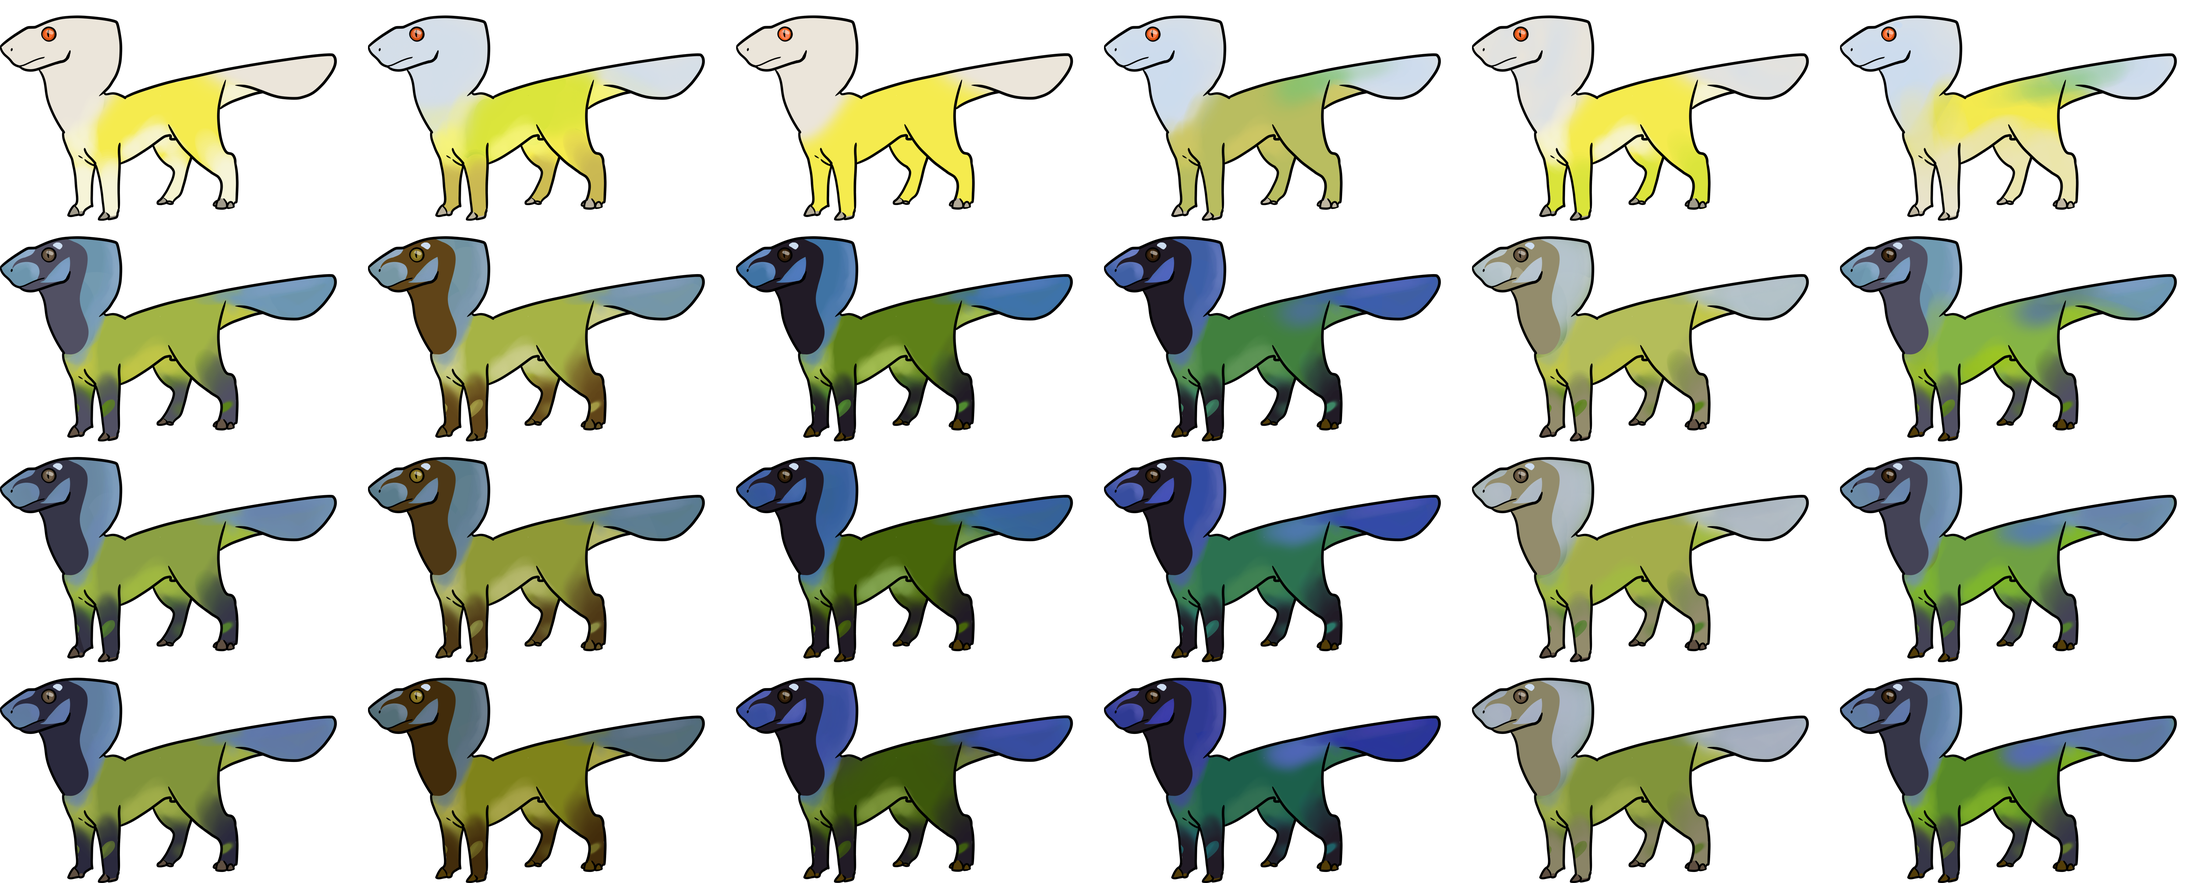
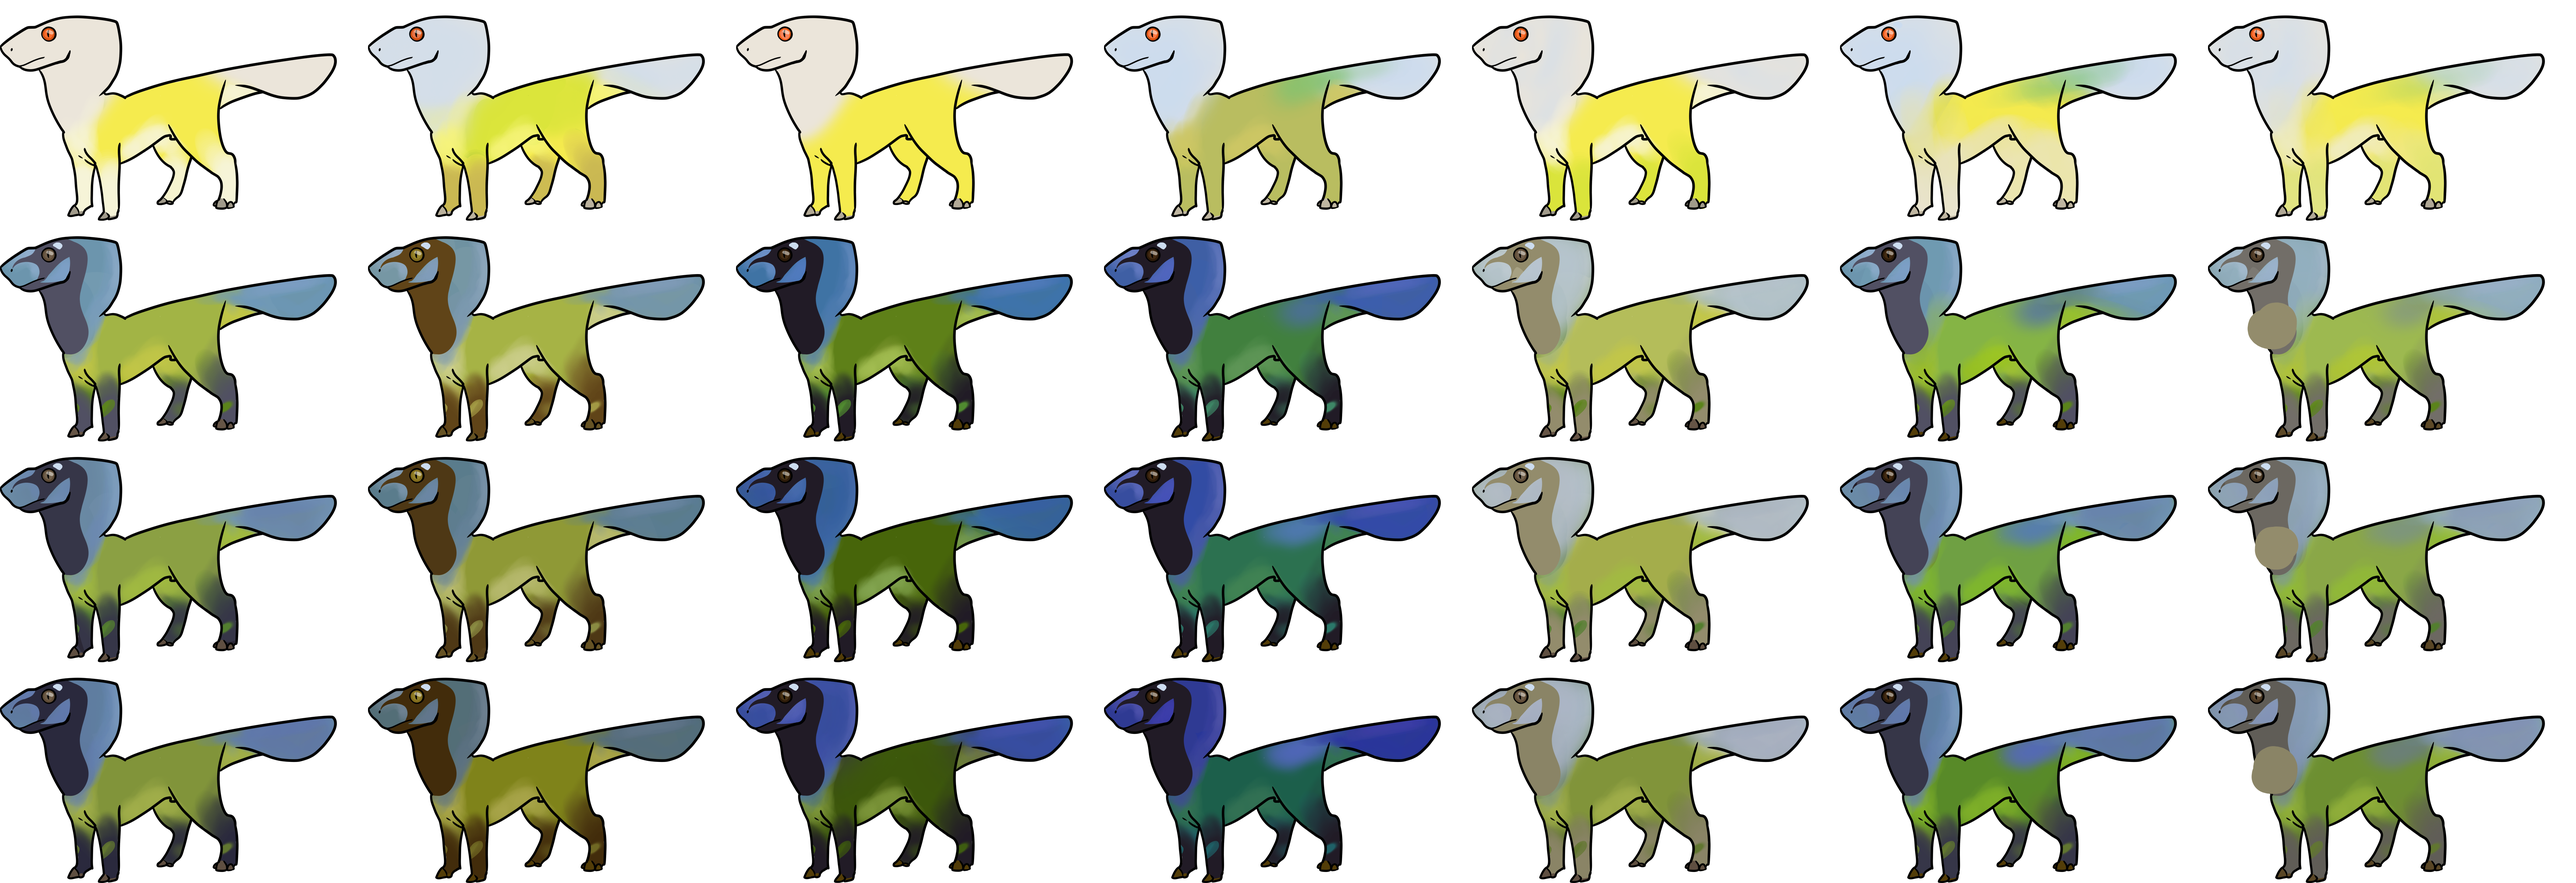
P3: Modified pictures in extractor to add another (forgotten) variation, modified pigmentation.json in P3 accordingly

diff --git a/projects/project3/js/script.js b/projects/project3/js/script.js
@@ -7,16 +7,43 @@ Eugene N. Fournier
 
 
 ******************/
-let genetics;
 let mother;
 let father;
 let child;
 
+//variables for the json files
+let genetics;
+let pigmentation;
+
+//variables for the body parts
+let accent;
 let body;
+let eye;
+let head;
+let hoof;
+let leg;
+let mask;
+let stomach;
+let violet;
+let whiter;
+let whiteR;
 
 function preload(){
+  //preload the JSON files
   genetics = loadJSON("data/genetics.json");
+  pigmentation = loadJSON("data/pigmentation.json")
+  //preload the body images
+  accent = loadImage("assets/images/accent.png");
   body = loadImage("assets/images/body.png");
+  eye = loadImage("assets/images/eye.png");
+  head = loadImage("assets/images/head.png");
+  hoof = loadImage("assets/images/hoof.png");
+  leg = loadImage("assets/images/leg.png");
+  mask = loadImage("assets/images/mask.png");
+  stomach = loadImage("assets/images/stomach.png");
+  violet = loadImage("assets/images/violet.png");
+  whiter = loadImage("assets/images/whiteb.png");
+  whiteR = loadImage("assets/images/whiteR.png");
 }
 
 function setup(){
@@ -36,4 +63,5 @@ function setup(){
   mother.textGenesAndPhenotype("mother",15,15);
   father.textGenesAndPhenotype("father",115,15);
   child.textGenesAndPhenotype("child",215,15);
+  console.log(pigmentation[child.phenotype]);
 }

diff --git a/projects/project3/js/Oujabe.js b/projects/project3/js/Oujabe.js
@@ -80,28 +80,6 @@ Oujabe.prototype.locusR = function(){
   }
 }
 
-
-
-Oujabe.prototype.simpleDominance = function(locusX, stringA, stringB, phenotype, pattern){
-  let locus = locusX.toString();
-  if(locus.indexOf(stringA) !== -1){
-    if(phenotype){
-      this.phenotype += stringA;
-    }
-    if(pattern){
-      this.pattern += stringA;
-    }
-  }
-  else{
-    if(phenotype){
-      this.phenotype += stringB;
-    }
-    if(pattern){
-      this.pattern += stringB;
-    }
-  }
-}
-
 //locusF()
 //
 //analyses the F locus to determine the phenotype
@@ -156,9 +134,11 @@ Oujabe.prototype.locusC = function(){
   //V is codominant with c and y
   else if(locusC.indexOf("V") !== -1){
     //V is partially dominant with c
+    this.pattern += "V";
     if(locusC.indexOf("c") !== -1){
       //the resulting "v" phenotype is called lilac
       this.phenotype += "v";
+      this.albino = true;
     }
     else if(locusC.indexOf("Y") !== -1){
       this.phenotype += "x"
@@ -172,6 +152,7 @@ Oujabe.prototype.locusC = function(){
     if(locusC.indexOf("c") !== -1){
       //the resulting "y" phenotype is called cream
       this.phenotype += "y";
+      this.albino = true;
     }
     else{
       this.phenotype += "Y";

diff --git a/projects/p3-data-extractor/js/script.js b/projects/p3-data-extractor/js/script.js
@@ -16,7 +16,7 @@ let pixelX = [513,610,394,282,154,537,187,198,136];
 let pixelY = [313,507,396,69,147,220,283,576,97];
 
 //variables to hold the number of columns and lines
-let columns = 6;
+let columns = 7;
 let lines = 4;
 //variables to hold the distance between columns and lines
 let distanceX = 1000;
@@ -24,10 +24,10 @@ let distanceY = 600;
 
 //this variable is for the phenotype names of each little creature in the image from which we extract colors
 let phenotype = [
-  "yc","Yy","YC","Yv","yy","yN",
-  "yCD","YYD","YCD","YVD","yYD","YxD",
-  "yCd","YYd","YCd","YVd","yYd","Yxd",
-  "yCa","YYa","YCa","YVa","yYa","Yxd"
+  "yc","Yy","Yc","Yv","yy","yN","yN",
+  "yCD","YYD","YCD","YVD","yYD","YxD","yxD",
+  "yCd","YYd","YCd","YVd","yYd","Yxd","yxd",
+  "yCa","YYa","YCa","YVa","yYa","Yxa","yxa"
 ]
 
 //an array to hold the images

diff --git a/projects/project3/js/OujabeDisplay.js b/projects/project3/js/OujabeDisplay.js
@@ -1,0 +1,24 @@
+//OujabeDisplay constructor
+//
+//this takes care of the image set for an oujabe
+//and the displaying
+function OujabeDisplay(phenotype,pattern){
+  //this holds the phenotype characteristics that affect the colors
+  this.phenotype = phenotype;
+  //this holds the phenotype characteristics that do not affect the colors
+  this.pattern = pattern;
+  this.body = body;
+  this.eye = eye;
+  this.head = head;
+  this.hoof = hoof;
+  this.leg = leg;
+  this.stomach = stomach;
+  this.mask;
+  this.violet;
+  this.white;
+  this.colorSet = pigmentation[this.phenotype];
+}
+
+OujabeDisplay.prototype.pattern = function(){
+  
+}
